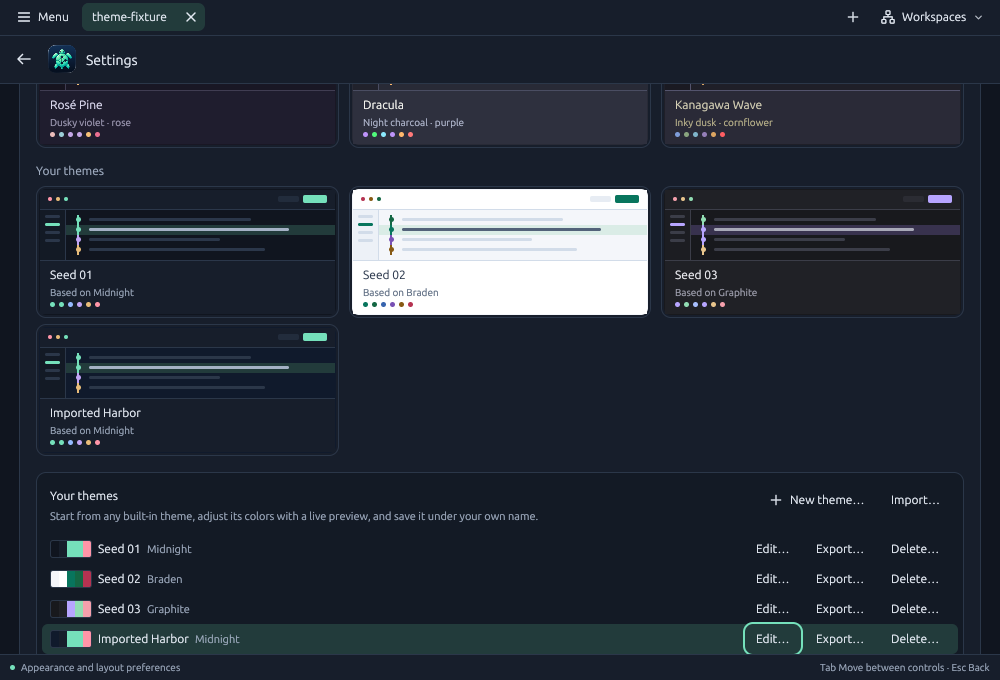
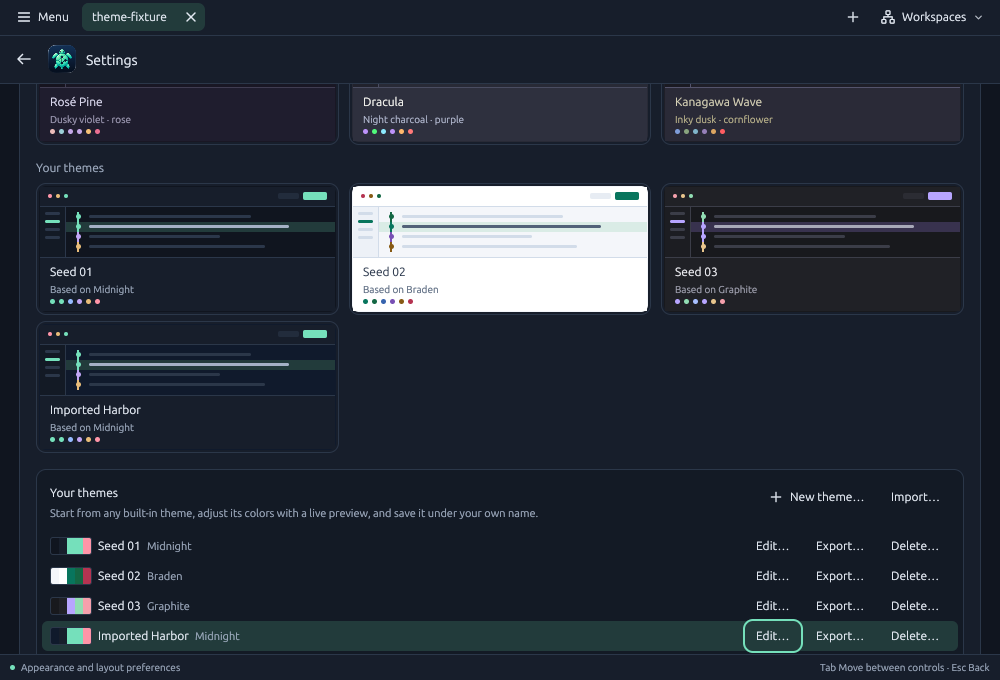
docs(settings): record the whole ring on Your themes rows
Native evidence for `your-themes-rows-whole-focus-ring`: a same-session
base de09c65 and candidate 3f4fec1 pair on Linux X11 at scale 1, in
Midnight and Porcelain. The six imported-* frames are retaken and six
are new (focus-hover-below, flush, rest). The candidate draws all four
sides of the focused Edit…'s ring at 5.57:1 or more, where the base
keeps only the corners of its bottom edge. The unfocused frames are
identical, and a row revealed flush against the status bar moves the
page up 3 px.

DESIGN.md and the app layout notes say how the rows keep the promise:
fills painted beneath the rows, and the page's own reveal margin.

diff --git a/crates/app/docs/content-and-layout.md b/crates/app/docs/content-and-layout.md
@@ -6,7 +6,7 @@ Read this when changing or reviewing themes, geometry, content preparation, edit
 
 Use semantic appearance colors for native controls and custom content together. GPUI Kit 0.6 reads component backgrounds from resolved `ThemeTokens` and foregrounds from `ThemeColor`; after overriding colors, rebuild `theme.tokens` before `Theme::sync_base`. Updating only the app palette leaves native controls stale. Theme changes invalidate concrete editor decorations without rereading immutable content or eagerly rebuilding hidden editors. A theme switch submits no worker job and keeps the retained patch and split editors and the patch editor's Find query and matches (`settings::theme_apply_tests`, which clicks real Settings theme cards). Under `GITTURTLE_TRACE` it prints [`gitturtle.theme_apply_frame_ms`](../../../docs/benchmarks/metrics.md), from `choose_theme` entry, for a built-in or a custom `ThemeSelection`, to the next frame callback; the [first release baseline](../../../docs/benchmarks/2026-09-18-theme-apply.md) is the reference the theme editor and picker work measures against. The theme editor's live preview uses the same path: `theme_editor::State::preview` holds the open draft, `apply_appearance` applies it in place of the saved selection, and the first edit of a frame applies in its handler while later edits in the same frame coalesce to one application at the next frame callback. Its own metric, [`gitturtle.theme_edit_frame_ms`](../../../docs/benchmarks/metrics.md), is stamped at entry to the token row's change handler before the value is parsed (or at `open_theme_editor` entry), kept in `theme_editor::State` until the root render (`views.rs`) takes it into `GitTurtle::edit_trace_probe`, a zero-size element deferred above the dialog layer, and printed from that element's paint: the last thing drawn in the first frame after the handler, on the frame tick or in the synchronous draw `Window::dispatch_key_event` makes, so the value is the handler plus that whole draw and never a callback wait. It submits no worker job (`theme_editor::tests`); closing the editor drops the draft and re-applies the saved selection.
 
-A palette application costs one whole-window layout, paint and present, so the path is built to ask for exactly one and to make it cheap. `apply_appearance` invalidates through its own `cx.notify()` and calls `appearance::sync_text_sizes`; it must not call `Window::refresh`, which marks the same window dirty but additionally bars GPUI's cached-view reuse for that frame. `appearance::apply_text_sizes` keeps that refresh for callers that own no entity to notify, where it is right: a text-size change moves every measured box. Reuse is what makes the Settings picker affordable. The rest of the frame is kept small by node count: the picker captions and the Your themes swatch strips are one painted element each (`settings::swatch_run`, the quads a row of divs painted), each card's miniature is one painted element too (`settings::paint_miniature`, which paints the boxes a div tree of its geometry would, through the same `paint_quad` snapping; it is not the earlier div tree redrawn but a miniature re-proportioned for the 132 px card, a 20 px top bar, 26 px sidebar and 10 px rows where the divs had 25, 30 and 14 px, beside a caption check badge as tall as the name's line, 15.6 px at the default size, where it was 18 px; so a frame that rebuilds every card under `Window::refresh`, as a click's release or a Tab's focus change does, lays out one node per miniature where a tree of forty stood), a token row of the editor lays out no spacer where no glyph is shown and no wrapper around its hex field (the kit `Input` takes the authored width and mono face through its own style refinement), a picker caption lays out the name row only on a card that shows the check badge or the warning glyph beside its name, and the Your themes rows are a `uniform_list` that keeps the kit focus ring's 3 px of room inside its own bounds (its content mask) and chains a wheel step to the Settings page only once the list has reached its end (`on_scroll_wheel` with `stop_propagation`, as nested scrolling behaves natively). That list is positioned absolutely over a flow box that is exactly the rows (`custom-themes-rows-box`), not laid out with negative margins: an absolute child does not enter taffy's sizing of the card, whereas a flow child whose margins pull its content contribution below its flex basis collapsed the card's content height under max-content sizing (taffy 0.13 scales that negative difference by the item's inner flex basis); `the_card_keeps_the_plain_stacks_geometry_around_the_rows` pins the card, the rows' box and the setting below for zero, one, two, eight and 32 themes. Because that content mask includes the ring's room, a row partly scrolled out of the viewport would paint into it: `render_custom_theme_rows` covers the room with two absolute strips of the card's surface, painted after the rows, while the rows stand off a row boundary, and leaves the room to a focused edge-slot action's ring on one; the boundary is judged where the list will stand after the frame's pending reveal, not where it stood (`settings::rows_off_boundary` resolves `reveal_focused_row`'s Nearest scroll as the list's prepaint will), so the frame that reveals a partly hidden row never draws a strip over its ring (`strips_cover_the_ring_room_while_the_rows_stand_off_a_boundary`). Each picker card, built-in or custom, shows a `settings::ThemePreviewBody` entity drawn with `Entity::cached` (by `settings::CardLayer`, beside the cached page; see [Cached Settings page](#cached-settings-page)), because a miniature draws its own theme's palette and a palette change does not alter a pixel of it; the card and the layer pin `text_color` to the previewed palette so the reuse key's inherited text style stays stable, and the caption stays outside the cached subtree because its selected badge and its warning glyph are drawn in the active palette, not the palette the card previews and the glyph may flag, and its background follows the card's hover state. The caption is at least 54 px (`min_h`), not exactly 54 px: at interface text sizes 11 and 12 its fixed padding, gaps, badge and swatches would otherwise squeeze the truncating name and description below their line height, so there the caption grows and the miniature gives up the difference (`the_caption_keeps_its_text_lines_at_small_interface_sizes`). The theme editor's preview card is the picker card's 132 px, so its miniature has the picker's proportions (`the_editor_preview_card_matches_a_picker_card`). The theme editor holds the same body beside its draft and pushes the draft in only when the palette really changed, so a frame that only renames, warns or moves focus reuses it too. A completed preference save asks for a frame only when it changed the status line or the error the page shows; otherwise every switch after the first would pay a second whole-window frame for nothing. `theme_editor::tests::an_edit_and_a_switch_each_draw_the_window_once` records the palette of every draw and asserts one draw per edit and per switch, none of them in the old palette and no draw from the save completion; the switch is a real click on the card, and because GPUI's click path calls `Window::refresh` on that mouse up, the test records the built-in and custom miniatures that release rebuilds and asserts the reuse on the edit frames instead, where every picker miniature, the edited theme's own included, is reused and only the draft's own is rebuilt. The Your themes card keeps its rows off every other frame's bill the same way History does: `settings::render_custom_theme_rows` is a `uniform_list` `min(rows, 8) × 30 px` tall, so a Settings or dialog frame lays out at most eight rows however many themes are saved. Its rows are drawn only in view, so their Edit…, Export… and Delete… (the kit's own tab stops) exist only while drawn; each row tracks one app-owned handle that is not a stop itself (`theme_editor::State::row_focus`) and its actions track app-owned stops (`State::action_focus`, through the kit `Button::track_focus` patch), so an action keeps focus while a wheel or scrollbar scroll takes its row wholly out of the list and the row comes back with it. A render finds the row holding focus through those handles and scrolls that row into view once per focus change, keyed by the focused action rather than the row, so a scroll away from the row stands while Tab onto another of its actions brings it back. While the focused action's row is not drawn the list tracks that action's handle, so the key still reaches the Settings key context, where `tab_theme_rows` scrolls the row back and the list's next render takes the step (`RowFocus::Step`) once the row's stops exist (`tab_after_a_wheel_step_scrolls_the_focused_row_back`, with the native frame 11 state's 63 px step); and `GitTurtle::tab_theme_rows` (bound to Tab and Shift-Tab in the Settings key context, ahead of the toolkit's Root binding) lets GPUI's own step stand whenever the row it should reach is drawn and otherwise scrolls the target row in, keeps focus where it was for that frame, and has the list's next render focus the action once the row's stops exist (`tab_walks_every_row_action_and_keeps_the_focused_row_in_view` and `tab_walks_the_last_rows_and_leaves_and_reenters_the_rows`, one walk in two halves so each fits the gate's twenty-seed rerun). Because the miniatures are retained, a card is paired with its body by lookup: each body is stored beside the `ThemeSelection` it draws in `GitTurtle::theme_previews` and found with `GitTurtle::theme_preview_body`, never by position, since `ThemeChoice::ALL` is in display order, `choice as usize` is declaration order and a custom id is not an index (`every_picker_card_draws_its_own_miniature` checks, from the rendered tree, that the body laid out inside each built-in card draws that card's palette; `custom_themes_form_a_third_picker_group` checks the custom cards the same way, with their "‹name› theme" names, the check on the selected card, the warning glyph on a palette with findings and the store write a click makes). `GitTurtle::set_custom_themes` is the only writer of `custom_themes` and keeps the custom bodies in step: a saved theme's body takes the new palette through `ThemePreviewBody::set_palette`, which notifies only when it changed, a new theme gets a body and a deleted theme's body is dropped, so a save invalidates only the saved theme's miniature. The frame that closes the editor is nonetheless drawn under `Window::refresh`, because the kit restores focus to the row's Edit… as it closes the dialog and `Window::focus` refreshes; `an_edit_and_a_switch_each_draw_the_window_once` records that rebuild beside the click's, asserts that only the saved theme's body was given a palette, and follows with a frame that reuses every miniature. The picker's warning glyph reads `theme_editor::State::warning_counts`, the per-palette cache the Your themes rows use, so a Settings frame recomputes no theme's readability findings; the picker grid is four columns at and above the 1,060 px breakpoint, three in the stacked layout and two in the narrow one, with 132 px cards, and a partial row's fillers carry the cards' padding and border so its cards stay on the full rows' columns (`picker_cards_keep_the_grid_geometry`). The guarded save notification and the missing refresh must not cost a result its frame either: `a_finished_transfer_and_a_confirmed_delete_draw_their_result` answers the native dialog across a window deactivation and reactivation, forces no draw afterwards, and asserts that the finished export, the finished import and the confirmed delete each draw the window with the notice or the updated list in it.
+A palette application costs one whole-window layout, paint and present, so the path is built to ask for exactly one and to make it cheap. `apply_appearance` invalidates through its own `cx.notify()` and calls `appearance::sync_text_sizes`; it must not call `Window::refresh`, which marks the same window dirty but additionally bars GPUI's cached-view reuse for that frame. `appearance::apply_text_sizes` keeps that refresh for callers that own no entity to notify, where it is right: a text-size change moves every measured box. Reuse is what makes the Settings picker affordable. The rest of the frame is kept small by node count: the picker captions and the Your themes swatch strips are one painted element each (`settings::swatch_run`, the quads a row of divs painted), each card's miniature is one painted element too (`settings::paint_miniature`, which paints the boxes a div tree of its geometry would, through the same `paint_quad` snapping; it is not the earlier div tree redrawn but a miniature re-proportioned for the 132 px card, a 20 px top bar, 26 px sidebar and 10 px rows where the divs had 25, 30 and 14 px, beside a caption check badge as tall as the name's line, 15.6 px at the default size, where it was 18 px; so a frame that rebuilds every card under `Window::refresh`, as a click's release or a Tab's focus change does, lays out one node per miniature where a tree of forty stood), a token row of the editor lays out no spacer where no glyph is shown and no wrapper around its hex field (the kit `Input` takes the authored width and mono face through its own style refinement), a picker caption lays out the name row only on a card that shows the check badge or the warning glyph beside its name, and the Your themes rows are a `uniform_list` that keeps the kit focus ring's 3 px of room inside its own bounds (its content mask) and chains a wheel step to the Settings page only once the list has reached its end (`on_scroll_wheel` with `stop_propagation`, as nested scrolling behaves natively). That list is positioned absolutely over a flow box that is exactly the rows (`custom-themes-rows-box`), not laid out with negative margins: an absolute child does not enter taffy's sizing of the card, whereas a flow child whose margins pull its content contribution below its flex basis collapsed the card's content height under max-content sizing (taffy 0.13 scales that negative difference by the item's inner flex basis); `the_card_keeps_the_plain_stacks_geometry_around_the_rows` pins the card, the rows' box and the setting below for zero, one, two, eight and 32 themes. Because that content mask includes the ring's room, a row partly scrolled out of the viewport would paint into it: `render_custom_theme_rows` covers the room with two absolute strips of the card's surface, painted after the rows, while the rows stand off a row boundary, and leaves the room to a focused edge-slot action's ring on one; the boundary is judged where the list will stand after the frame's pending reveal, not where it stood (`settings::rows_off_boundary` resolves `reveal_focused_row`'s Nearest scroll as the list's prepaint will), so the frame that reveals a partly hidden row never draws a strip over its ring (`strips_cover_the_ring_room_while_the_rows_stand_off_a_boundary`). Every row's fill, the import highlight and the hover surface alike, is painted in one layer beneath all the rows rather than as each row's background, because a row paints after the row above it and its own fill would cover the ring's bottom edge around an action there (`a_focused_row_actions_ring_is_whole_beside_the_import_highlight`). The Settings page reveals the focused row too, with the ring's room from its own viewport's edge, placed where the list will stand once its own reveal lands (`settings::planned_rows_top`, which `rows_off_boundary` shares), so a row at the list's end against the status bar keeps its ring (`a_revealed_row_keeps_its_ring_inside_the_settings_page`). Each picker card, built-in or custom, shows a `settings::ThemePreviewBody` entity drawn with `Entity::cached` (by `settings::CardLayer`, beside the cached page; see [Cached Settings page](#cached-settings-page)), because a miniature draws its own theme's palette and a palette change does not alter a pixel of it; the card and the layer pin `text_color` to the previewed palette so the reuse key's inherited text style stays stable, and the caption stays outside the cached subtree because its selected badge and its warning glyph are drawn in the active palette, not the palette the card previews and the glyph may flag, and its background follows the card's hover state. The caption is at least 54 px (`min_h`), not exactly 54 px: at interface text sizes 11 and 12 its fixed padding, gaps, badge and swatches would otherwise squeeze the truncating name and description below their line height, so there the caption grows and the miniature gives up the difference (`the_caption_keeps_its_text_lines_at_small_interface_sizes`). The theme editor's preview card is the picker card's 132 px, so its miniature has the picker's proportions (`the_editor_preview_card_matches_a_picker_card`). The theme editor holds the same body beside its draft and pushes the draft in only when the palette really changed, so a frame that only renames, warns or moves focus reuses it too. A completed preference save asks for a frame only when it changed the status line or the error the page shows; otherwise every switch after the first would pay a second whole-window frame for nothing. `theme_editor::tests::an_edit_and_a_switch_each_draw_the_window_once` records the palette of every draw and asserts one draw per edit and per switch, none of them in the old palette and no draw from the save completion; the switch is a real click on the card, and because GPUI's click path calls `Window::refresh` on that mouse up, the test records the built-in and custom miniatures that release rebuilds and asserts the reuse on the edit frames instead, where every picker miniature, the edited theme's own included, is reused and only the draft's own is rebuilt. The Your themes card keeps its rows off every other frame's bill the same way History does: `settings::render_custom_theme_rows` is a `uniform_list` `min(rows, 8) × 30 px` tall, so a Settings or dialog frame lays out at most eight rows however many themes are saved. Its rows are drawn only in view, so their Edit…, Export… and Delete… (the kit's own tab stops) exist only while drawn; each row tracks one app-owned handle that is not a stop itself (`theme_editor::State::row_focus`) and its actions track app-owned stops (`State::action_focus`, through the kit `Button::track_focus` patch), so an action keeps focus while a wheel or scrollbar scroll takes its row wholly out of the list and the row comes back with it. A render finds the row holding focus through those handles and scrolls that row into view once per focus change, keyed by the focused action rather than the row, so a scroll away from the row stands while Tab onto another of its actions brings it back. While the focused action's row is not drawn the list tracks that action's handle, so the key still reaches the Settings key context, where `tab_theme_rows` scrolls the row back and the list's next render takes the step (`RowFocus::Step`) once the row's stops exist (`tab_after_a_wheel_step_scrolls_the_focused_row_back`, with the native frame 11 state's 63 px step); and `GitTurtle::tab_theme_rows` (bound to Tab and Shift-Tab in the Settings key context, ahead of the toolkit's Root binding) lets GPUI's own step stand whenever the row it should reach is drawn and otherwise scrolls the target row in, keeps focus where it was for that frame, and has the list's next render focus the action once the row's stops exist (`tab_walks_every_row_action_and_keeps_the_focused_row_in_view` and `tab_walks_the_last_rows_and_leaves_and_reenters_the_rows`, one walk in two halves so each fits the gate's twenty-seed rerun). Because the miniatures are retained, a card is paired with its body by lookup: each body is stored beside the `ThemeSelection` it draws in `GitTurtle::theme_previews` and found with `GitTurtle::theme_preview_body`, never by position, since `ThemeChoice::ALL` is in display order, `choice as usize` is declaration order and a custom id is not an index (`every_picker_card_draws_its_own_miniature` checks, from the rendered tree, that the body laid out inside each built-in card draws that card's palette; `custom_themes_form_a_third_picker_group` checks the custom cards the same way, with their "‹name› theme" names, the check on the selected card, the warning glyph on a palette with findings and the store write a click makes). `GitTurtle::set_custom_themes` is the only writer of `custom_themes` and keeps the custom bodies in step: a saved theme's body takes the new palette through `ThemePreviewBody::set_palette`, which notifies only when it changed, a new theme gets a body and a deleted theme's body is dropped, so a save invalidates only the saved theme's miniature. The frame that closes the editor is nonetheless drawn under `Window::refresh`, because the kit restores focus to the row's Edit… as it closes the dialog and `Window::focus` refreshes; `an_edit_and_a_switch_each_draw_the_window_once` records that rebuild beside the click's, asserts that only the saved theme's body was given a palette, and follows with a frame that reuses every miniature. The picker's warning glyph reads `theme_editor::State::warning_counts`, the per-palette cache the Your themes rows use, so a Settings frame recomputes no theme's readability findings; the picker grid is four columns at and above the 1,060 px breakpoint, three in the stacked layout and two in the narrow one, with 132 px cards, and a partial row's fillers carry the cards' padding and border so its cards stay on the full rows' columns (`picker_cards_keep_the_grid_geometry`). The guarded save notification and the missing refresh must not cost a result its frame either: `a_finished_transfer_and_a_confirmed_delete_draw_their_result` answers the native dialog across a window deactivation and reactivation, forces no draw afterwards, and asserts that the finished export, the finished import and the confirmed delete each draw the window with the notice or the updated list in it.
 
 `Palette::readability_issues` (`src/appearance/custom.rs`) is the single readability rule set: the palette tests assert it is empty for every built-in, and the theme editor (`src/theme_editor.rs`) shows the same issues as warnings for custom palettes instead of adding its own checks. Each issue names the foreground token or graph lane, the background token or selected-row hover blend, the measured ratio and the minimum; the rows and thresholds are the [themes specification's rules table](../../../docs/development/themes/spec.md#readability-rules). `Palette::is_light` (canvas brighter than text) selects the graph lane set, so the lanes judged by the rules are the lanes painted.
 

diff --git a/DESIGN.md b/DESIGN.md
@@ -154,7 +154,7 @@ Below 1060 px, stack the settings groups into one scrollable column. Theme cards
 
 ### Custom theme editor
 
-**Your themes** sits directly under the theme picker as a grouped card on the subtle surface: the title, a one-line description, **New theme…** (the shared 28 px `button` helper, disabled at the 32-theme bound with the reason and the remedy in its tooltip: "Up to 32 custom themes can be saved. Delete one before adding another."), and the saved themes as 30 px rows whose content aligns with the card title (the hover surface bleeds into the card padding), or the muted line "No custom themes yet." when there is none. The row list is `min(rows, 8) × 30 px` tall and virtualized (`uniform_list`, as History): with up to eight themes it is exactly the stacked rows; with more it scrolls inside the card with the toolkit scrollbar on its right edge, which reserves its own track so the thumb never covers **Delete…**, only the rows in view are drawn, Tab and Shift-Tab still walk every row's **Edit…**, **Export…** and **Delete…** in order across the viewport boundary, and the row holding focus is scrolled into view. The list keeps the shared focus ring's 3 px of room above its first row and below its last inside the card's existing gaps, so a focused row action's ring is whole in every slot and the rows and card do not move; and a wheel step over the list moves the list while it can still move that way, and the Settings page only once it cannot, as nested scrolling chains natively. A row shows a five-token swatch strip (canvas, panel, accent, added, removed), the name in primary text, the base in muted text, a checkmark when it is the active theme, a warning glyph with a count when `readability_issues` is non-empty, and compact **Edit…**, **Export…** and **Delete…** actions whose accessible names name the theme ("Edit Sunset theme"); **Export…** says what it writes in its tooltip. **Import…** sits beside **New theme…** in the card header, without an icon, disabled at the same bound with the same reason and remedy in its tooltip ("… Delete one before importing another."). **New theme…** keeps its visible label as its accessible name, and **Import…** is announced as "Import a theme file". A delete, export or import leaves one line at the foot of the card and never two: a failure in the warning color, or a finished export or import in muted text naming the written path or the imported theme. That message wraps to at most two lines and, when it is a single paragraph, ends in an ellipsis when it would run past them (a native dialog's failure is instead its guidance, which on Linux names xdg-desktop-portal and its FileChooser backend, then the service's own error in muted text on a line of its own, shortened where the message is built, so what the bound can cut is the quoted error; the repository picker's alert and the Projects error draw that line muted too), and the path and any text quoted from a theme file are shortened where the message is built, so no message can grow the card and push the settings below it away. The row a just-finished import added is highlighted on the selected surface until the next card action — hovering it is not a card action and keeps the highlight — and importing adds a theme without applying it, so the checkmark still marks the theme the window uses.
+**Your themes** sits directly under the theme picker as a grouped card on the subtle surface: the title, a one-line description, **New theme…** (the shared 28 px `button` helper, disabled at the 32-theme bound with the reason and the remedy in its tooltip: "Up to 32 custom themes can be saved. Delete one before adding another."), and the saved themes as 30 px rows whose content aligns with the card title (the hover surface bleeds into the card padding), or the muted line "No custom themes yet." when there is none. The row list is `min(rows, 8) × 30 px` tall and virtualized (`uniform_list`, as History): with up to eight themes it is exactly the stacked rows; with more it scrolls inside the card with the toolkit scrollbar on its right edge, which reserves its own track so the thumb never covers **Delete…**, only the rows in view are drawn, Tab and Shift-Tab still walk every row's **Edit…**, **Export…** and **Delete…** in order across the viewport boundary, and the row holding focus is scrolled into view, within the Settings page too, with the ring's 3 px of room from the page's edge. The list keeps the shared focus ring's 3 px of room above its first row and below its last inside the card's existing gaps, and every row's fill, hover and import highlight alike, is painted beneath all the rows, so a focused row action's ring is whole in every slot and the rows and card do not move; and a wheel step over the list moves the list while it can still move that way, and the Settings page only once it cannot, as nested scrolling chains natively. A row shows a five-token swatch strip (canvas, panel, accent, added, removed), the name in primary text, the base in muted text, a checkmark when it is the active theme, a warning glyph with a count when `readability_issues` is non-empty, and compact **Edit…**, **Export…** and **Delete…** actions whose accessible names name the theme ("Edit Sunset theme"); **Export…** says what it writes in its tooltip. **Import…** sits beside **New theme…** in the card header, without an icon, disabled at the same bound with the same reason and remedy in its tooltip ("… Delete one before importing another."). **New theme…** keeps its visible label as its accessible name, and **Import…** is announced as "Import a theme file". A delete, export or import leaves one line at the foot of the card and never two: a failure in the warning color, or a finished export or import in muted text naming the written path or the imported theme. That message wraps to at most two lines and, when it is a single paragraph, ends in an ellipsis when it would run past them (a native dialog's failure is instead its guidance, which on Linux names xdg-desktop-portal and its FileChooser backend, then the service's own error in muted text on a line of its own, shortened where the message is built, so what the bound can cut is the quoted error; the repository picker's alert and the Projects error draw that line muted too), and the path and any text quoted from a theme file are shortened where the message is built, so no message can grow the card and push the settings below it away. The row a just-finished import added is highlighted on the selected surface until the next card action — hovering it is not a card action and keeps the highlight — and importing adds a theme without applying it, so the checkmark still marks the theme the window uses.
 
 The editor is an alert dialog titled **New theme** or **Edit theme**, 1,000 px wide at 13 pt when the window is at least the scaled 1,060 px and 648 px otherwise. Beyond its fixed 16 px panel padding and 16 px scrollbar track the width scales with the interface text size, as the rows do, so the longest description (Accent's) ends at least 12 px before the warning slot at every size and is never truncated at 18 pt; it is never wider than the window less 32 px:
 

diff --git a/docs/validation.md b/docs/validation.md
@@ -65,6 +65,42 @@ Current semantics and focused fixture commands are documented in [authentication
 
 The [CI workflow](../.github/workflows/quality.yml) configures locked workspace tests and strict all-target Clippy on macOS 15 and Ubuntu 24.04, formatting, and release compilation/package checks on macOS 26 and Ubuntu 24.04. Python guidance/controller checks run on macOS 15 and Ubuntu 24.04. Disposable package checks cover identity, notices and applicable installation, ELF or Mach-O verification; diagnostics are uploaded, while [binary artifacts](ci-artifacts.md) require complete notices. [Actual hosted results](benchmarks/2026-09-15-ci.md) remain distinct from configured coverage and from physical-desktop, screen-reader, native-package or distribution acceptance.
 
+## September 29 whole focus ring on Your themes rows
+
+Task `your-themes-rows-whole-focus-ring`, from the finding in [frames retaken under the solid focus ring](#september-29-frames-retaken-under-the-solid-focus-ring); the owner kept `DESIGN.md`'s whole-ring promise. Three faults cut the bottom edge of the ring around a focused Edit…, Export… or Delete… in Settings' Your themes list:
+- **Import highlight.** The highlighted row painted its fill as its own background, after the row above it, so the fill covered the ring on that row's actions.
+- **Hover.** A hovered plain row's fill did the same to the row above it.
+- **Reveal.** A focused row revealed flush against the status bar lost the ring to the Settings page's viewport, which never scrolled for it.
+
+Every row's fill, the import highlight and the hover surface alike, is now painted in one layer beneath all the rows, with each row's bounds, corners, color and clip, so unfocused pixels are unchanged (`settings.rs`). The Settings page has its own scroll handle and reveals a focused row with the installed ring's gap plus width of room, once per focus change, placed where the list will stand after its own reveal (`settings::planned_rows_top`, shared with `rows_off_boundary`). A row that was exactly flush moves the page up 3 px.
+
+Tests:
+- `theme_editor::tests::a_focused_row_actions_ring_is_whole_beside_the_import_highlight` failed on the old paint order ("a fill drawn after the ring covers its bottom edge") and without the rows' empty hover style ("the pointer alone … changes the rows' fills").
+- `theme_editor::tests::a_revealed_row_keeps_its_ring_inside_the_settings_page` failed without the page reveal ("the ring … 62×34 lies inside the page's viewport (0, 84) 1000×570").
+
+Native evidence, full tier:
+- Builds: base `de09c65` (sha256 `c0c51988…`) and candidate `3f4fec1` (sha256 `6b88ed4a…`), both debug and clean; `qa.py identity` reported no problem. The branch later merged `main`, whose [tab-strip change](#september-29-focus-ring-inside-the-repository-tab-strip) moves nothing unfocused and touches no Settings code.
+- Host: Ubuntu 26.04, GNOME 50 on Wayland, XWayland `:0` at scale factor 1, window 1000x680. Input went through Mutter RemoteDesktop with verified X focus.
+- Fixture: `theme-fixture` (HEAD `52f471a`), unchanged by every launch. The store holds Seed 01 Midnight, Seed 02 Braden and Seed 03 Graphite with the palette active, as the committed frames did. Import… adds "Imported Harbor" (base Midnight) through the Nautilus FileChooser. It is clicked with the pointer, so keyboard focus stays where Settings put it, and the store it writes was byte-identical on both builds. The flush and rest launches start from that store with the fourth theme already saved, and import nothing.
+- Focus: from Settings' entry focus, Tab 37 reaches Seed 02's Edit…, 40 Seed 03's and 43 Imported Harbor's, the same on both builds. For the hover frame the pointer then moves onto the plain row below, because GPUI shows no hover while the last input was a key.
+- `qa.py compare <base> <candidate> --mask status-timing`, both palettes:
+  - `highlight` and `rest`: identical.
+  - `focus-hover-below` and `focus-beside-highlight`: 100 px each, one region along the ring's bottom edge.
+  - `focus-on-highlight` and `flush`: the page moved up 3 px (83,834 and 78,558 px in Midnight, 85,126 and 79,859 in Porcelain). Inside the page's viewport (y 84 to 653) the candidate's y 84 to 650 equals the base's y 87 to 653 exactly, everything outside the viewport is identical, and the three rows it reveals at the bottom carry the ring's bottom edge.
+
+Ring pixels in the 1 to 3 px band outside the focused Edit…, against the same build's unfocused frame at the same scroll. Each cell gives the differing pixels out of the band; the counts are the same in all four frames and both palettes:
+
+| Build | Top | Bottom | Left | Right |
+| --- | --- | --- | --- | --- |
+| base | 114/162 | 14/162 | 62/84 | 62/84 |
+| candidate | 114/162 | 114/162 | 62/84 | 62/84 |
+
+The base's 14 bottom pixels all lie where the rounded corners bend into the band; between them it has no bottom edge. The candidate's strongest ring pixel reads 10.93:1 on Midnight's list surface, 8.80:1 on a hovered row's fill and 7.48:1 on the highlight, and 6.21:1, 5.77:1 and 5.57:1 in Porcelain. Every side reads at least 5.57:1.
+
+Frames, in [`evidence/themes/linux-gaps/`](evidence/themes/linux-gaps/): the six `imported-{midnight,porcelain}-1000x680-{highlight,focus-beside-highlight,focus-on-highlight}.png` are retaken on the candidate, and six are new: `…-focus-hover-below`, `…-flush` (Imported Harbor's Edit… focused at the list's end against the status bar, with no import) and `…-rest` (the same view unfocused). The base's beside and on frames reproduced the committed `650a76e` frames byte for byte, so the route matches theirs. `qa.py privacy scan --redacted --jobs 8` with the local template set found all 12 clean, and a full-resolution view shows only theme names, the `theme-fixture` tab and Settings text.
+
+Not covered: macOS, fractional scale factors, release builds, the accessibility tree and touch input, where the fill layer's `Hitbox::is_hovered` check can show a row's hover fill.
+
 ## September 29 GitTurtle under XWayland on Omarchy
 
 Task `omarchy-xwayland-evidence` checks the release build as an X11 client on Omarchy, launched as `docs/linux.md` suggests with `env -u WAYLAND_DISPLAY`. It is evidence only; no product code changed. The runs took place between 2026-09-29 23:17 and 2026-09-30 00:20 UTC.
